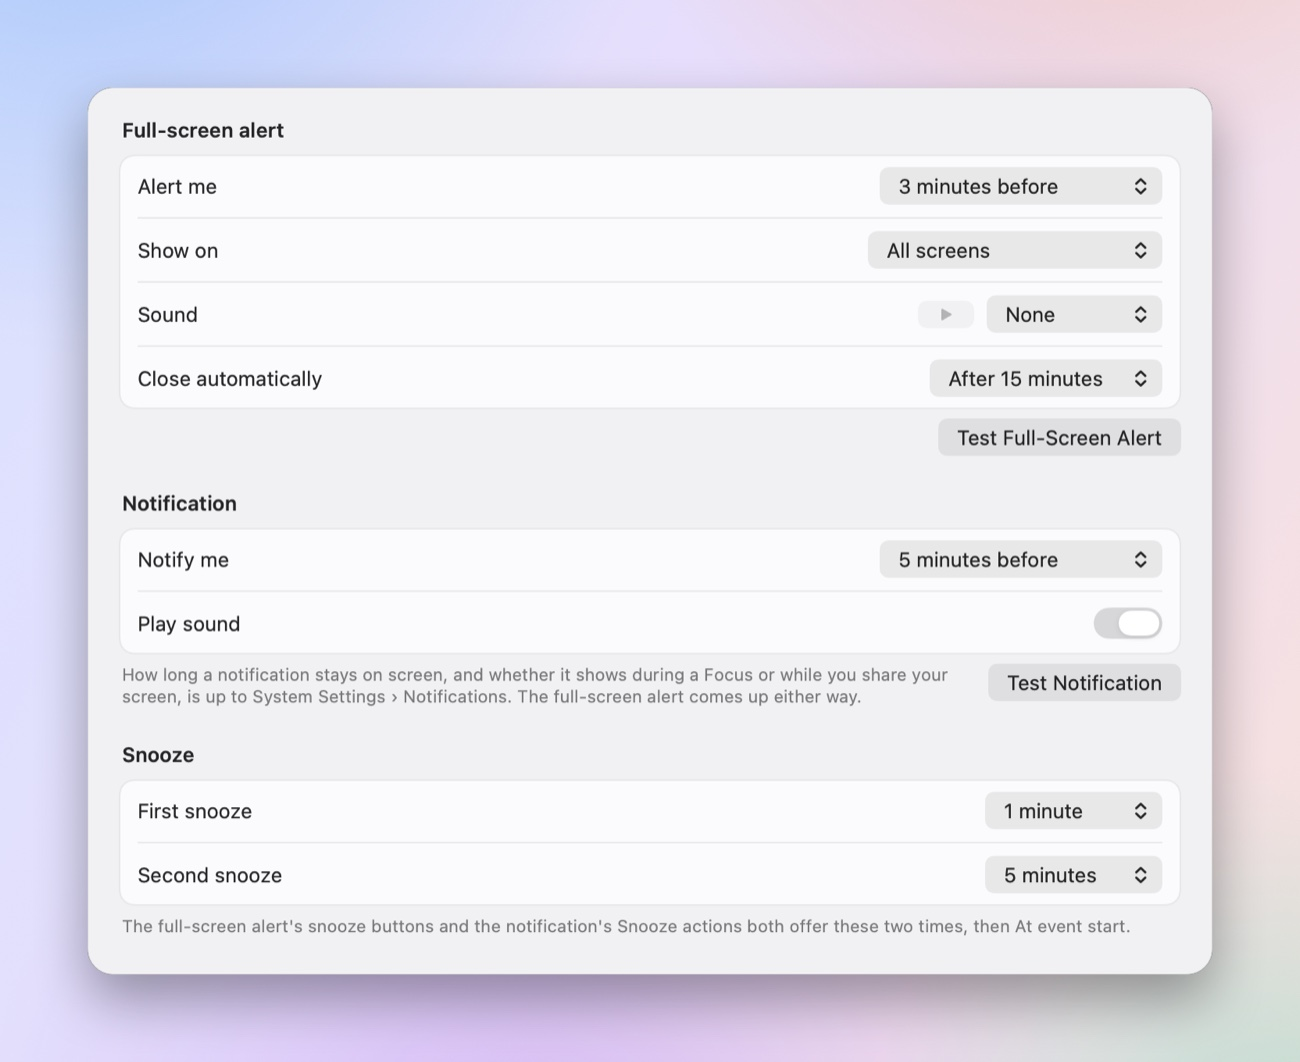
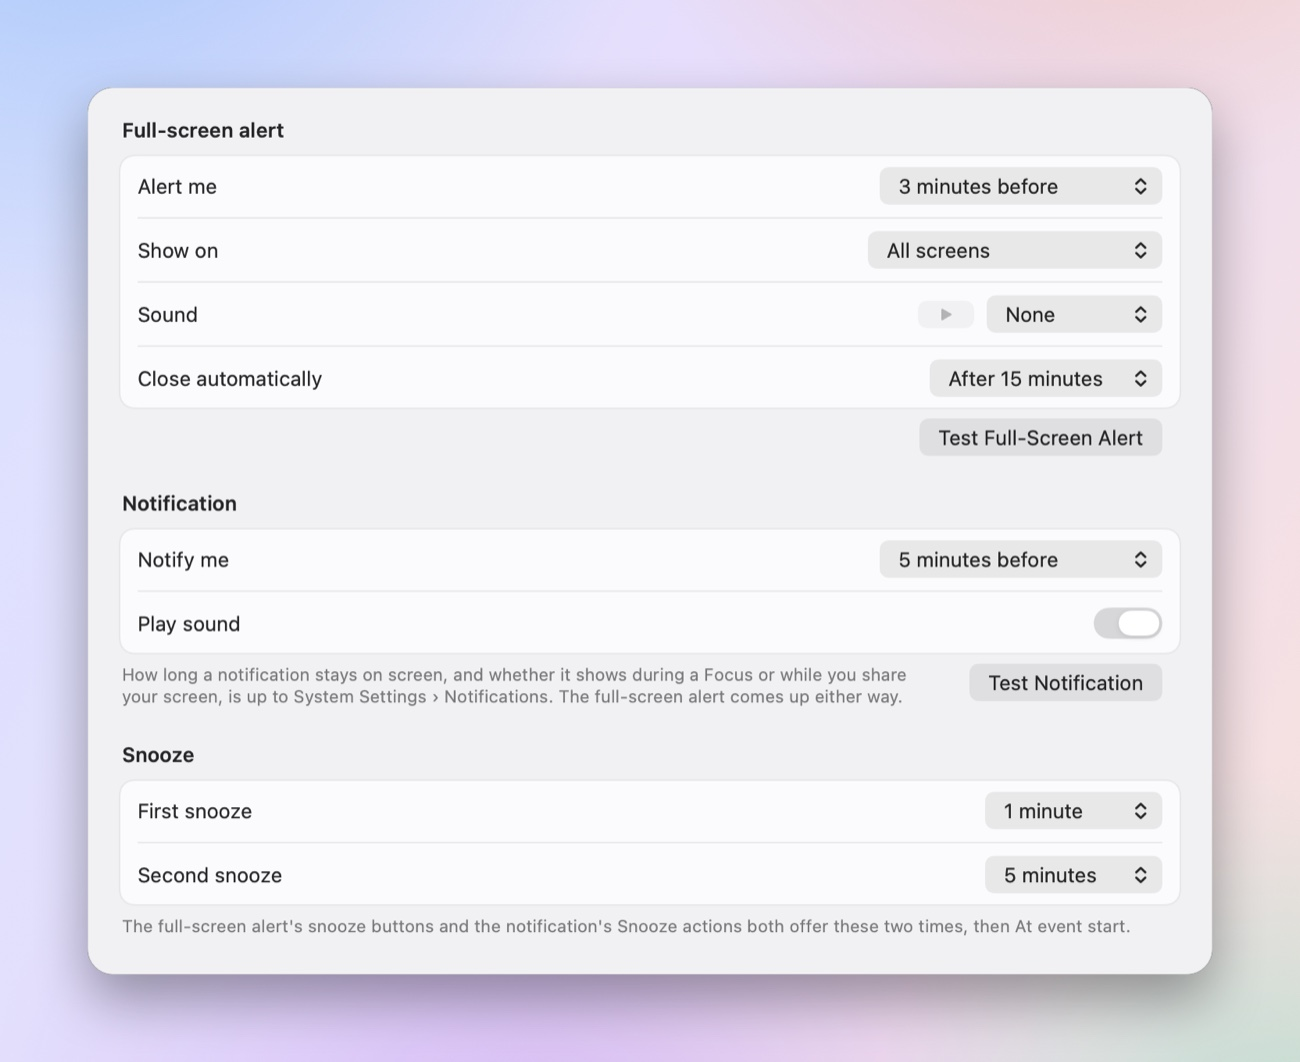
Settings: the Test buttons line up with the controls in the box above

diff --git a/Sources/Join/Settings/SettingsComponents.swift b/Sources/Join/Settings/SettingsComponents.swift
@@ -66,7 +66,9 @@ struct SettingsSection<Content: View, Accessory: View>: View {
                         } else {
                             Spacer(minLength: 0)
                         }
+                        // Inset like the box's rows, so the button lines up with the controls above it.
                         accessory
+                            .padding(.trailing, SettingsMetrics.boxInset)
                     }
                 }
             }
